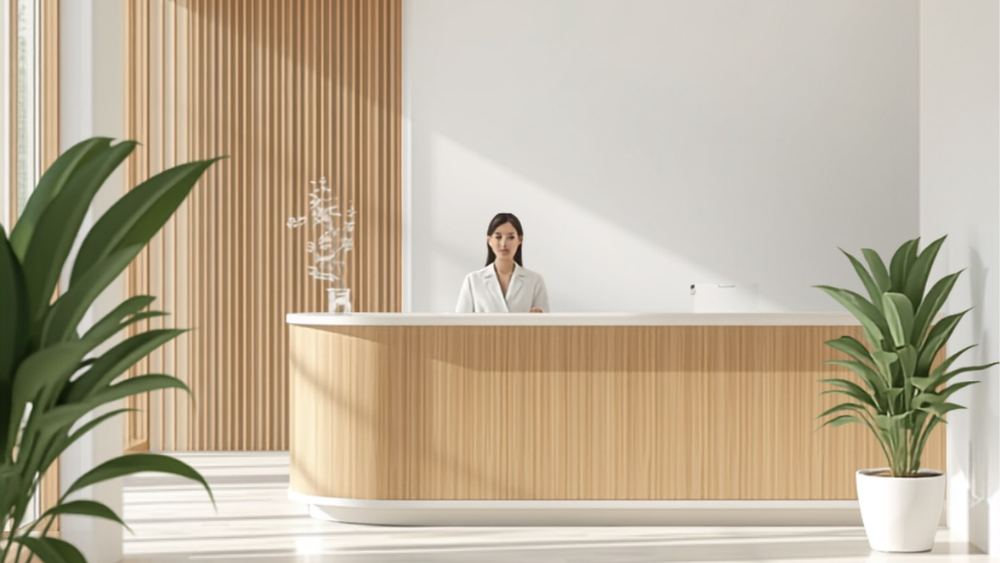
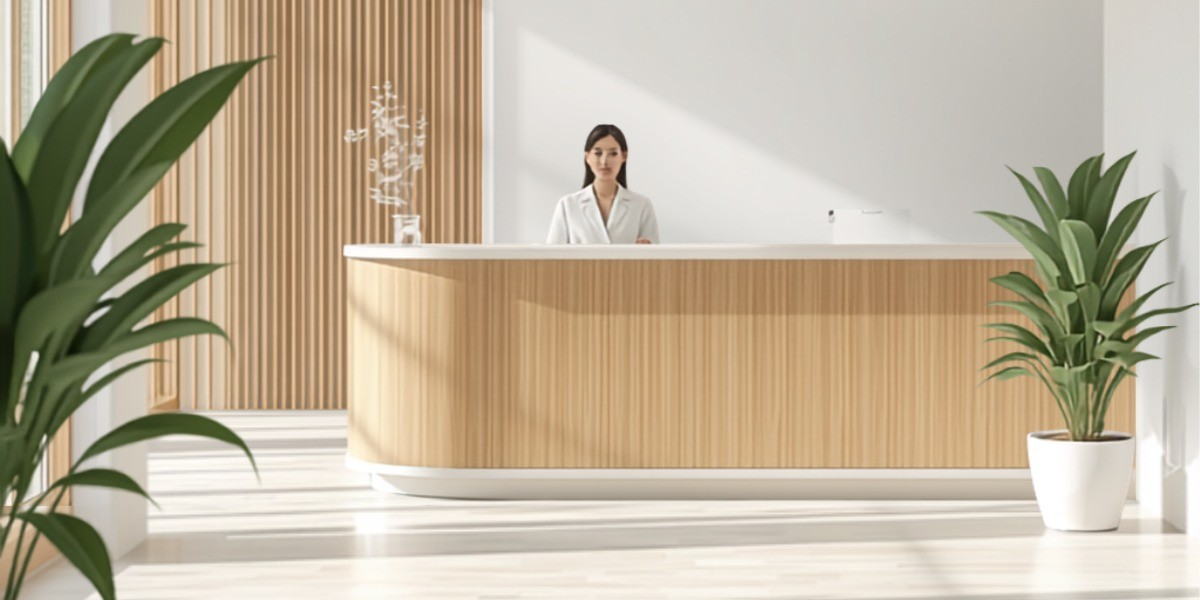
第2領域：受付の写真を高精細・枠内に／浮いたお金と時間（事務代行の実際の支払い）を追加

diff --git a/index.html b/index.html
@@ -491,6 +491,11 @@
   .a-fig .m-dr{width:34px;height:34px}
   .a-fig .m-fig{max-width:460px;display:block;margin:.4rem auto 0}
   .a-fig figcaption{margin-top:.6rem;font-size:.84rem;line-height:1.7;color:var(--ink-3)}
+  .m-money{margin:2.4rem 0 0}
+  .m-money-h{margin:0;font-family:var(--serif);font-size:clamp(1.3rem,2.6vw,1.7rem);color:var(--ink)}
+  .m-money-s{margin:.6rem 0 0;font-size:.95rem;line-height:1.9;color:var(--ink-2)}
+  .m-money-grid{display:grid;grid-template-columns:repeat(3,1fr);gap:1.2rem;margin-top:1.2rem}
+  @media (max-width:980px){.m-money-grid{grid-template-columns:1fr}}
   .m-foot{margin-top:1.4rem;font-size:.86rem;color:var(--ink-3);line-height:1.8}
 </style>
 <noscript><style>.rise{opacity:1!important;transform:none!important;}</style></noscript>
@@ -662,6 +667,31 @@
         <div class="m-ledger-t"><b>稼働中の自動化　106件</b><span>台帳の実数（2026年10月29日）。院長個人用・見張り用を含みます。</span></div>
         <div class="m-ledger-fig"><svg class="m-fig" viewBox="0 0 340 134" role="img" aria-hidden="true"><rect x="20.0" y="30" width="127.4" height="34" fill="var(--green)"/><text x="83.7" y="52" text-anchor="middle" class="sv-in">45</text><rect x="147.4" y="30" width="90.6" height="34" fill="var(--green-2)"/><text x="192.6" y="52" text-anchor="middle" class="sv-in">32</text><rect x="237.9" y="30" width="36.8" height="34" fill="var(--clay)"/><text x="256.3" y="52" text-anchor="middle" class="sv-in">13</text><rect x="274.7" y="30" width="45.3" height="34" fill="#8FA79F"/><text x="297.4" y="52" text-anchor="middle" class="sv-in">16</text><rect x="20" y="92" width="10" height="10" rx="2" fill="var(--green)"/><text x="35" y="101" class="sv-l2">毎日 45</text><rect x="101.25" y="92" width="10" height="10" rx="2" fill="var(--green-2)"/><text x="116.25" y="101" class="sv-l2">毎月 32</text><rect x="182.5" y="92" width="10" height="10" rx="2" fill="var(--clay)"/><text x="197.5" y="101" class="sv-l2">毎週 13</text><rect x="20" y="110" width="10" height="10" rx="2" fill="#8FA79F"/><text x="35" y="119" class="sv-l2">随時など 16</text></svg></div>
       </div>
+      
+      <div class="m-money rise">
+        <h3 class="m-money-h">浮いたお金と時間</h3>
+        <p class="m-money-s">当院が実際に払っていた事務代行の費用と、それがAIでどう変わるかです。数字は、請求書台帳（出金の記録）と、事務代行の残り時間の通知で確かめたものです。</p>
+        <div class="m-money-grid">
+          <article class="m-card">
+            <div class="m-head"><svg class="m-dr" viewBox="0 0 64 64" aria-hidden="true"><circle cx="32" cy="22" r="12" fill="#F7D4B3"/><path d="M19 21a13 13 0 0 1 26 0v1H19z" fill="#2B2B2B"/><circle cx="27" cy="25" r="1.5" fill="#2B2B2B"/><circle cx="37" cy="25" r="1.5" fill="#2B2B2B"/><path d="M28 30q4 3 8 0" fill="none" stroke="#9C5B3A" stroke-width="1.6" stroke-linecap="round"/><path d="M8 64c0-14 10-24 24-24s24 10 24 24z" fill="#fff" stroke="#C6D0CB"/><path d="M26 41l6 10 6-10z" fill="#9FE8C7"/></svg><h3>事務代行に払っていた金額</h3></div>
+            <svg class="m-fig" viewBox="0 0 340 128" role="img" aria-hidden="true"><rect x="10.0" y="61.0" width="7.4" height="39.0" rx="1.5" fill="var(--green-2)"/><rect x="20.3" y="61.0" width="7.4" height="39.0" rx="1.5" fill="var(--green-2)"/><rect x="30.6" y="61.0" width="7.4" height="39.0" rx="1.5" fill="var(--green-2)"/><rect x="40.9" y="61.0" width="7.4" height="39.0" rx="1.5" fill="var(--green-2)"/><rect x="51.2" y="61.0" width="7.4" height="39.0" rx="1.5" fill="var(--green-2)"/><rect x="61.5" y="61.0" width="7.4" height="39.0" rx="1.5" fill="var(--green-2)"/><rect x="71.8" y="61.0" width="7.4" height="39.0" rx="1.5" fill="var(--green-2)"/><rect x="82.1" y="61.0" width="7.4" height="39.0" rx="1.5" fill="var(--green-2)"/><rect x="92.4" y="61.0" width="7.4" height="39.0" rx="1.5" fill="var(--green-2)"/><rect x="102.7" y="22.0" width="7.4" height="78.0" rx="1.5" fill="var(--clay)"/><rect x="113.0" y="61.0" width="7.4" height="39.0" rx="1.5" fill="var(--green-2)"/><rect x="123.3" y="22.0" width="7.4" height="78.0" rx="1.5" fill="var(--clay)"/><rect x="133.6" y="61.0" width="7.4" height="39.0" rx="1.5" fill="var(--green-2)"/><rect x="143.9" y="61.0" width="7.4" height="39.0" rx="1.5" fill="var(--green-2)"/><rect x="154.2" y="58.7" width="7.4" height="41.3" rx="1.5" fill="var(--green-2)"/><rect x="164.5" y="61.0" width="7.4" height="39.0" rx="1.5" fill="var(--green-2)"/><rect x="174.8" y="61.0" width="7.4" height="39.0" rx="1.5" fill="var(--green-2)"/><rect x="185.1" y="61.0" width="7.4" height="39.0" rx="1.5" fill="var(--green-2)"/><rect x="195.4" y="60.1" width="7.4" height="39.9" rx="1.5" fill="var(--green-2)"/><rect x="205.7" y="61.0" width="7.4" height="39.0" rx="1.5" fill="var(--green-2)"/><rect x="216.0" y="61.0" width="7.4" height="39.0" rx="1.5" fill="var(--green-2)"/><rect x="226.3" y="61.0" width="7.4" height="39.0" rx="1.5" fill="var(--green-2)"/><rect x="236.6" y="61.0" width="7.4" height="39.0" rx="1.5" fill="var(--green-2)"/><rect x="246.9" y="61.0" width="7.4" height="39.0" rx="1.5" fill="var(--green-2)"/><rect x="257.2" y="61.0" width="7.4" height="39.0" rx="1.5" fill="var(--green-2)"/><rect x="267.5" y="61.0" width="7.4" height="39.0" rx="1.5" fill="var(--green-2)"/><rect x="277.8" y="61.0" width="7.4" height="39.0" rx="1.5" fill="var(--green-2)"/><rect x="288.1" y="60.1" width="7.4" height="39.9" rx="1.5" fill="var(--green-2)"/><rect x="298.4" y="61.0" width="7.4" height="39.0" rx="1.5" fill="var(--green-2)"/><rect x="308.7" y="60.1" width="7.4" height="39.9" rx="1.5" fill="var(--green-2)"/><text x="10" y="120" class="sv-l2">2024年3月</text><text x="330" y="120" text-anchor="end" class="sv-l2">2026年8月</text></svg>
+            <div class="m-num"><b>4,770,700円</b><span>30か月の合計（2024年3月〜2026年8月）。毎月ほぼ148,500円（税込）。赤い月は、上乗せの月です</span></div>
+            <p>契約は、毎月25時間です。時間あたりに直すと、約5,940円（148,500円÷25時間）になります。</p>
+          </article>
+          <article class="m-card">
+            <div class="m-head"><svg class="m-dr" viewBox="0 0 64 64" aria-hidden="true"><circle cx="32" cy="22" r="12" fill="#F7D4B3"/><path d="M19 21a13 13 0 0 1 26 0v1H19z" fill="#2B2B2B"/><circle cx="27" cy="25" r="1.5" fill="#2B2B2B"/><circle cx="37" cy="25" r="1.5" fill="#2B2B2B"/><path d="M28 30q4 3 8 0" fill="none" stroke="#9C5B3A" stroke-width="1.6" stroke-linecap="round"/><path d="M8 64c0-14 10-24 24-24s24 10 24 24z" fill="#fff" stroke="#C6D0CB"/><path d="M26 41l6 10 6-10z" fill="#9FE8C7"/></svg><h3>解約すると、年に不要になる金額</h3></div>
+            <div class="m-num"><b>年 1,782,000円</b><span>148,500円×12か月。事務代行は2026年11月末で終了します（解約は8月31日に申し出済み）</span></div>
+            <p>実際に浮くのは、12月からです。11月末までは、これまでどおり払います。AIの外部サービス利用料は、月に数百円〜数千円で済むものを選んでいます（必ず、事前に金額をお伝えします）。</p>
+          </article>
+          <article class="m-card">
+            <div class="m-head"><svg class="m-dr" viewBox="0 0 64 64" aria-hidden="true"><circle cx="32" cy="22" r="12" fill="#F7D4B3"/><path d="M19 21a13 13 0 0 1 26 0v1H19z" fill="#2B2B2B"/><circle cx="27" cy="25" r="1.5" fill="#2B2B2B"/><circle cx="37" cy="25" r="1.5" fill="#2B2B2B"/><path d="M28 30q4 3 8 0" fill="none" stroke="#9C5B3A" stroke-width="1.6" stroke-linecap="round"/><path d="M8 64c0-14 10-24 24-24s24 10 24 24z" fill="#fff" stroke="#C6D0CB"/><path d="M26 41l6 10 6-10z" fill="#9FE8C7"/></svg><h3>AIに置き換えて、依頼が消えた作業</h3></div>
+            <div class="m-num"><b>月 185分</b><span>集計の2件（スタッフの分析ページの集計145分＋求人サイトの分析40分）。2026年7月14日にAIで内製化し、8月から依頼がありません</span></div>
+            <p>上の時間単価で金額にすると、月に約18,300円（年に約219,600円）です。事務代行のままなら、かかっていた分の目安です。</p>
+          </article>
+        </div>
+        <p class="m-foot">時間単価は、月額を契約時間で割った目安です。院長やスタッフが手作業に使っていた時間は、記録がなく、ここには載せていません。</p>
+      </div>
+
       <div class="m-grid">
         <article class="m-card rise">
           <div class="m-head"><svg class="m-dr" viewBox="0 0 64 64" aria-hidden="true"><circle cx="32" cy="22" r="12" fill="#F7D4B3"/><path d="M19 21a13 13 0 0 1 26 0v1H19z" fill="#2B2B2B"/><circle cx="27" cy="25" r="1.5" fill="#2B2B2B"/><circle cx="37" cy="25" r="1.5" fill="#2B2B2B"/><path d="M28 30q4 3 8 0" fill="none" stroke="#9C5B3A" stroke-width="1.6" stroke-linecap="round"/><path d="M8 64c0-14 10-24 24-24s24 10 24 24z" fill="#fff" stroke="#C6D0CB"/><path d="M26 41l6 10 6-10z" fill="#9FE8C7"/></svg><h3>自費の入金もれ</h3></div>
@@ -855,7 +885,7 @@
     </div>
   </section>
 
-  <div class="band-full b-recep rise" role="img" aria-label="明るく清潔感のある医院の受付と待合"></div>
+  <div class="wrap"><div class="band b-recep rise" role="img" aria-label="明るく清潔感のある医院の受付と待合" style="aspect-ratio:2/1;"></div></div>
 
   <!-- STEPS -->
   <section class="pain-band" id="flow">
